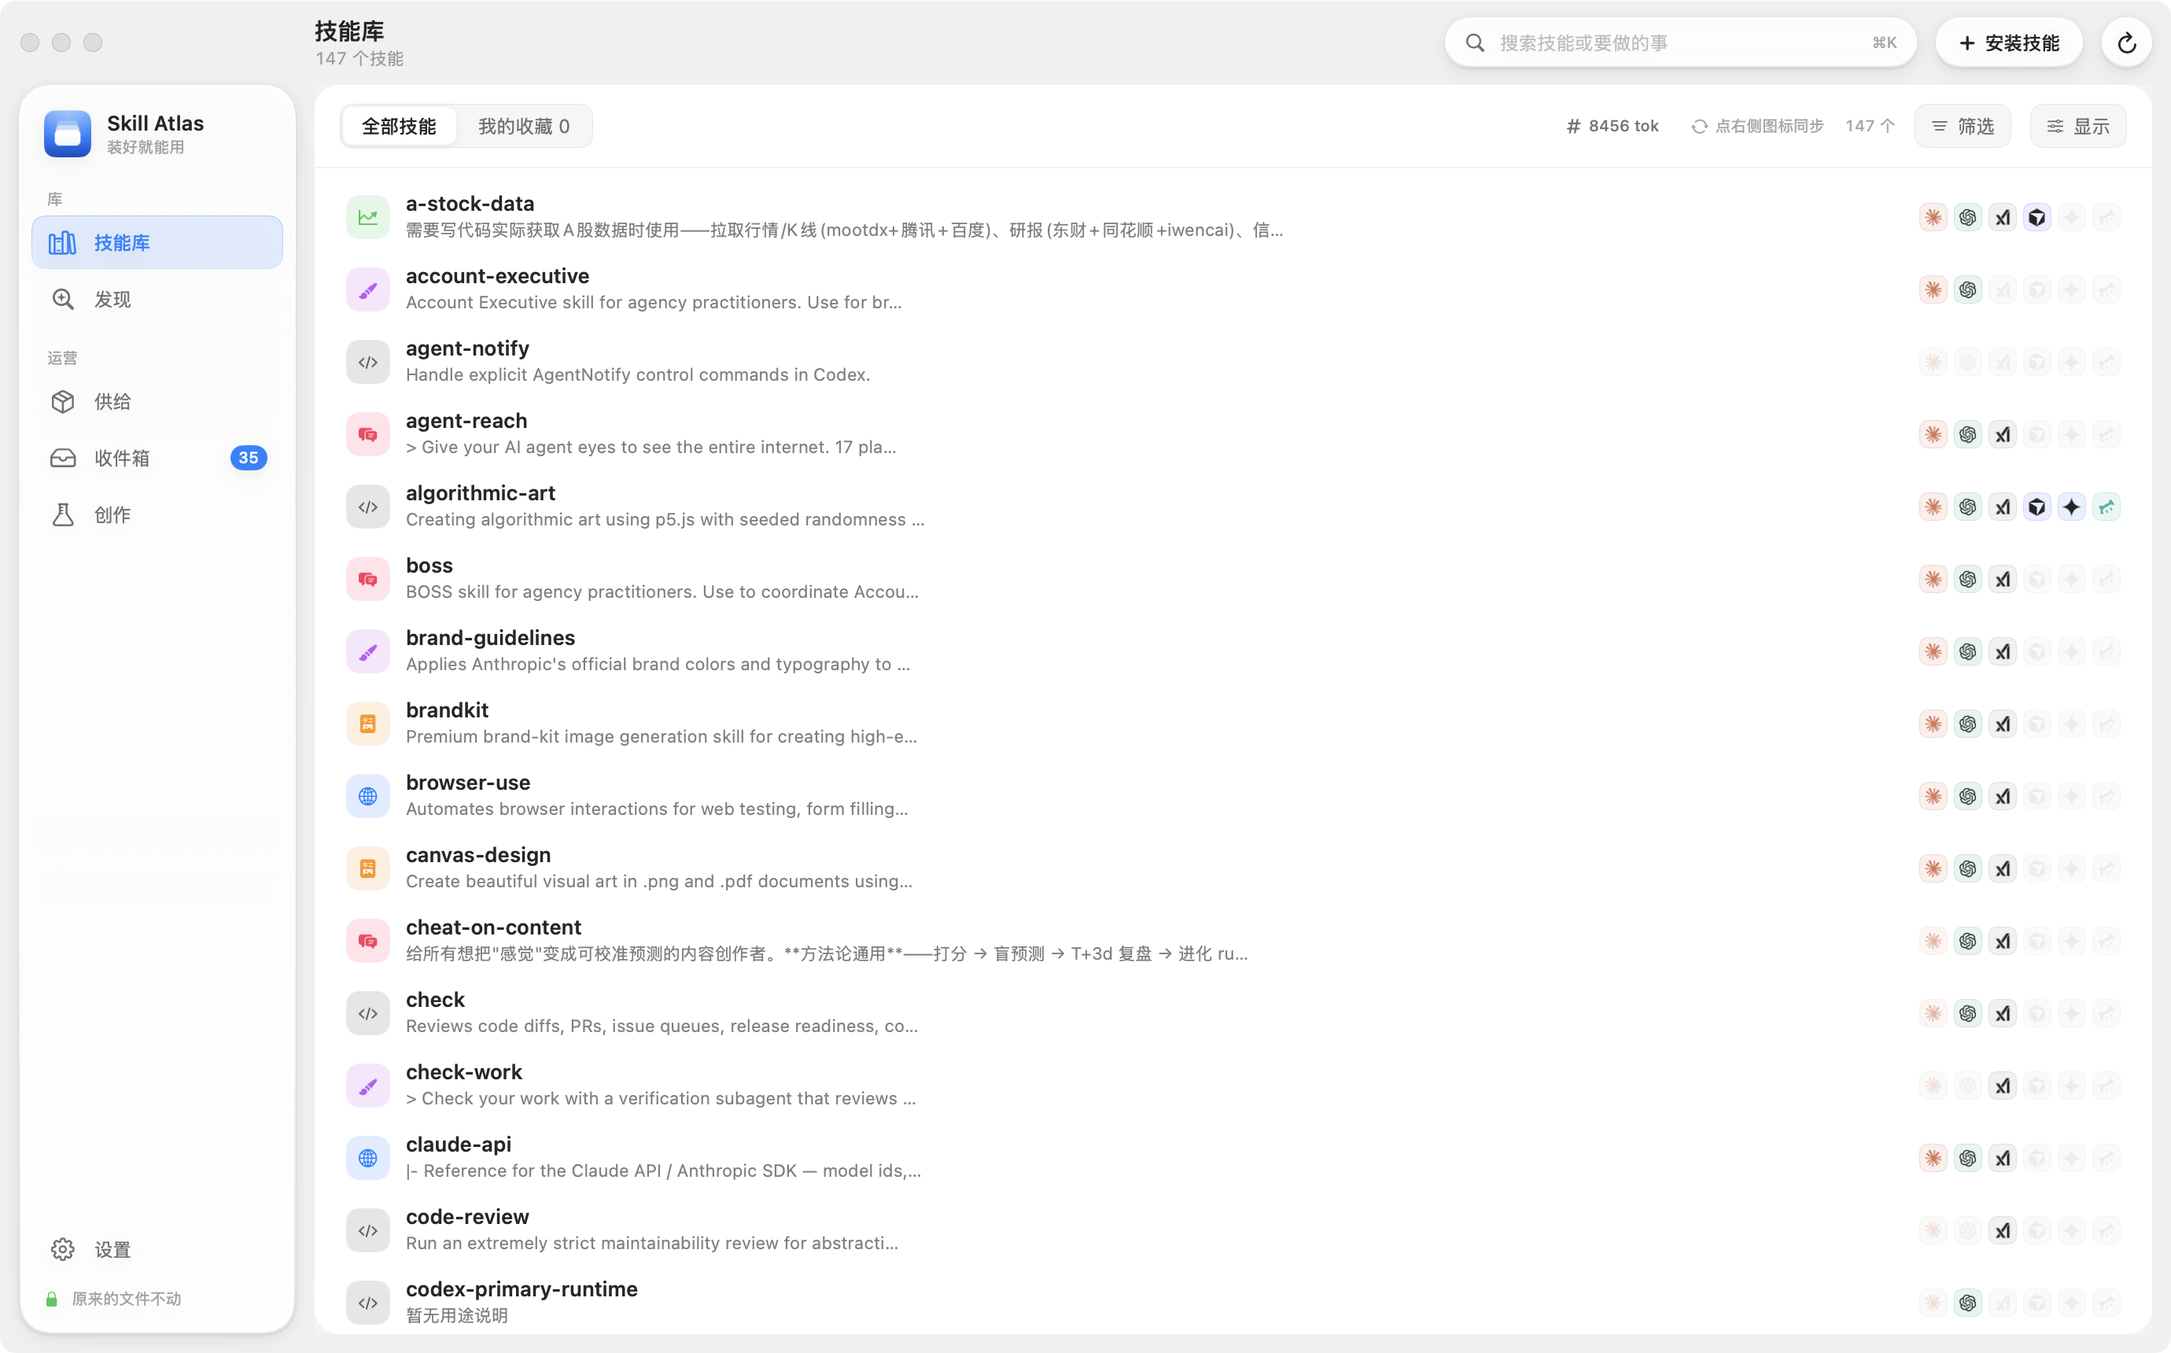
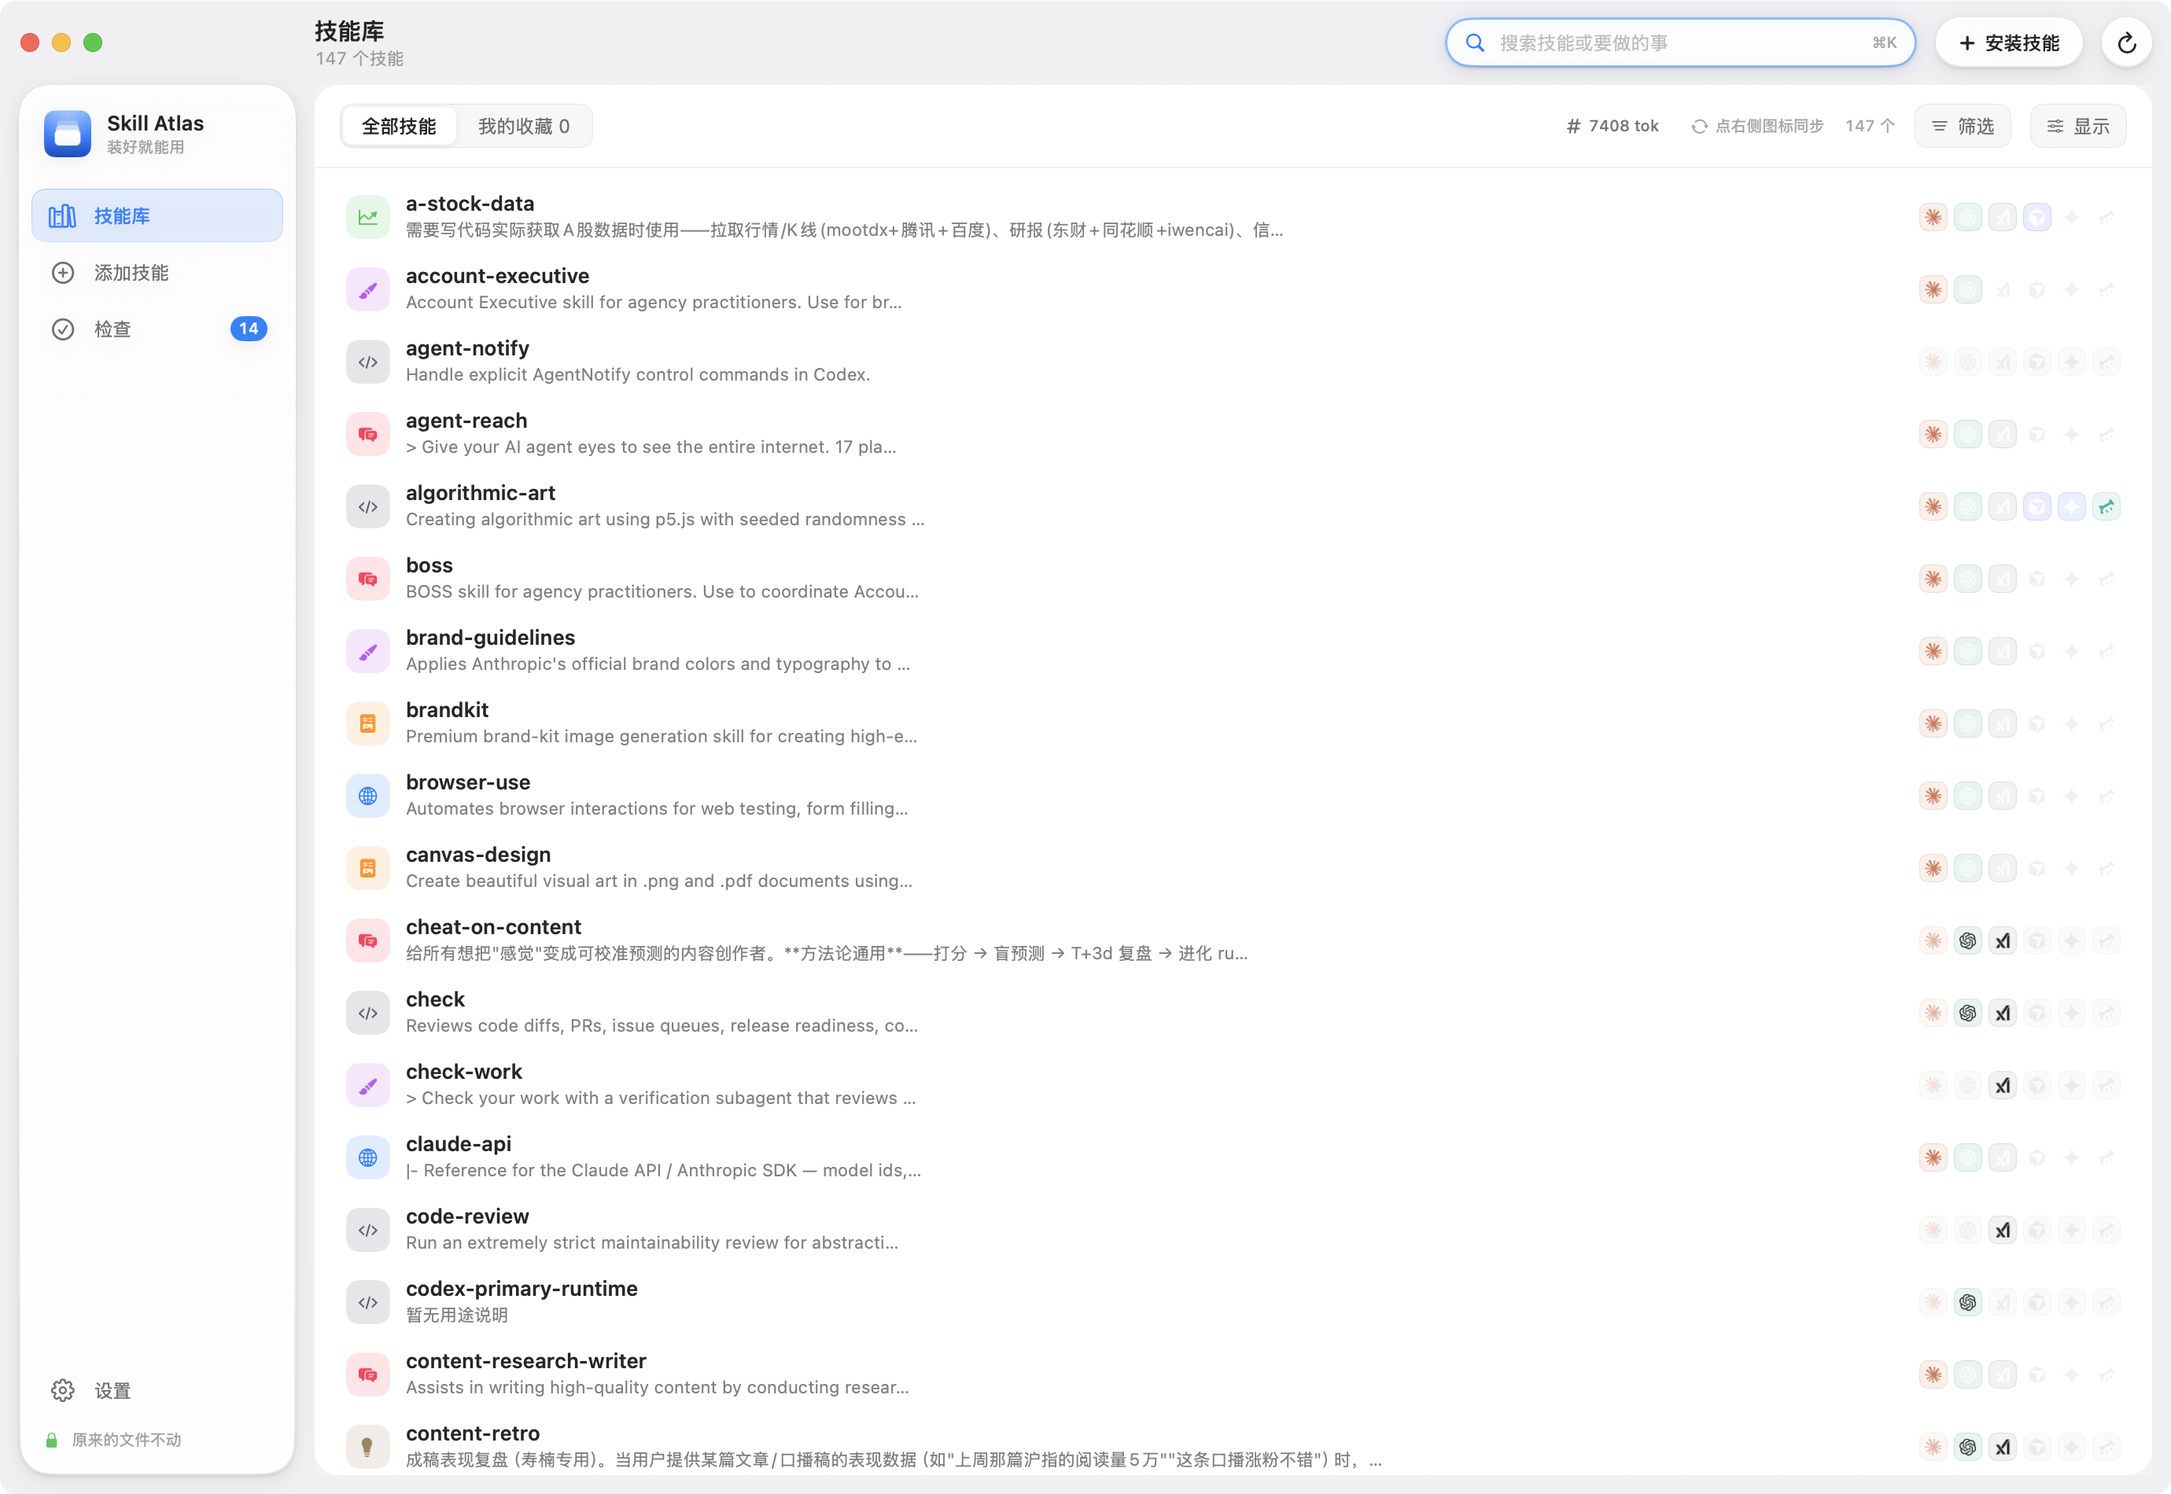
release: 2.2.0（文档与落地页跟上四页结构）
README、手册、落地页全部按新的四个页面重写：技能库、添加技能、检查、
设置。旧黑话（供给 / 收件箱 / 创作页）在这三处的出现次数归零。

手册改成四条日常流程——装一个新技能、自己做一个技能、每隔一阵看一眼
检查、让某个技能少占位置——每条都写清「成了的标志」和 agent 在终端里
的等价命令。

落地页主图重拍：旧图还是六项侧栏。

diff --git a/docs/index.html b/docs/index.html
@@ -4,7 +4,7 @@
     <meta charset="utf-8" />
     <meta name="viewport" content="width=device-width, initial-scale=1" />
     <title>Skill Atlas · 下载</title>
-    <meta name="description" content="技能的供给与运维层。agent 在会话里搜、装、诊断、沉淀；你每周清一次收件箱、调一次供给。装什么都过本地安全扫描。" />
+    <meta name="description" content="帮你把技能管好，然后别烦你。技能装了就能用；真出问题时到「检查」页看一眼。装什么都先过一遍本地安全扫描。" />
     <link rel="icon" href="./app-icon.png" />
     <link rel="stylesheet" href="./landing.css" />
   </head>
@@ -17,8 +17,8 @@
       </header>
 
       <section class="hero">
-        <h1>技能的供给与运维层</h1>
-        <p>本地 macOS 应用，五个名词各管一件事：技能库、发现、供给、收件箱、创作。终端里的 agent 用 <code>atlas</code> 搜、装、诊断、沉淀；你每周清一次收件箱。装什么都过本地安全扫描。</p>
+        <h1>把技能管好，然后别烦你</h1>
+        <p>本地 macOS 应用，四个页面：技能库、添加技能、检查、设置。技能装了就能用，真出问题时到「检查」看一眼。终端里的 agent 用 <code>atlas</code> 自己搜、装、诊断。装什么都先过一遍本地安全扫描。</p>
         <div class="cta">
           <a class="btn" id="download" href="https://github.com/shoumunan/skill-atlas/releases/latest">下载 Skill Atlas</a>
           <p class="note" id="meta">macOS 14+ · Apple 芯片 · 未公证，首次请右键打开</p>
@@ -35,12 +35,12 @@
           <p>聚合搜 skills.sh 与 SkillHub，官方精选一键装。zip 包安全解包，装前扫描一道不少。</p>
         </article>
         <article>
-          <h2>供给三档，账单可见</h2>
-          <p>哪个 AI、哪个项目带哪些技能进场。场景包一键切换，瘦身草案把每会话的 token 税砍下来。</p>
+          <h2>少占位置</h2>
+          <p>技能攒多了，每次对话都要先读一遍所有简介。不常用的设成「点名才用」，随时能叫，平时不花钱。</p>
         </article>
         <article>
-          <h2>收件箱裁决</h2>
-          <p>待审批、安全命中、挂载失败、miss、可更新排一条队。清零有回执，安全关键不许静音。</p>
+          <h2>出事才出声</h2>
+          <p>等你确认、可能不安全、装了用不了、叫不动——只有这四类会来找你。平时它是安静的。</p>
         </article>
       </section>
 

diff --git a/native/swift/core/L10nCore.swift b/native/swift/core/L10nCore.swift
@@ -18,6 +18,6 @@ package func LF(_ key: String, _ args: CVarArg...) -> String {
 
 /// 与 Info.plist CFBundleShortVersionString 对齐。发版改这一处 + plist。
 package enum AtlasVersion {
-    package static let string = "2.1.3"
-    package static let build = "213"
+    package static let string = "2.2.0"
+    package static let build = "220"
 }

diff --git a/docs/handbook.md b/docs/handbook.md
@@ -1,70 +1,76 @@
 # Skill Atlas 使用手册
 
-一句话：**技能的供给与运维层**。agent 在会话里搜、装、诊断、沉淀技能；你每周开一次面板，清收件箱、调供给。装什么都要过本地安全扫描，市场的评分与认证只是参考。
+一句话：**帮你把技能管好，然后别烦你**。技能装了就能用；真出问题时，App 会在「检查」里用人话告诉你怎么了。
 
 ## 你是谁，从哪读起
 
-- **会话里的 agent**：不用读这本手册。App 已把 `skill-atlas` 元技能挂到所有平台，agent 自己知道什么时候跑 `atlas search / install / simulate / new`。
-- **每周开一次面板的人**：读下面四条工作流，够用一年。
-- **技能少于 20 个、只用一个 AI 软件的人**：诚实说，Claude Code 原生的 `/plugin` 和 `~/.claude/skills` 就够了，暂时用不上本工具。
-- **想把技能库分享给同事的人**：还没做（P2 边界），先用 GitSync 手动同步。
+- **会话里的 agent**：不用读。App 已把 `skill-atlas` 元技能挂到所有平台，agent 自己知道什么时候搜、装、诊断、沉淀。
+- **你**：读下面四条，够用一年。
+- **技能少于 20 个、只用一个 AI 软件的人**：诚实说，Claude Code 自带的 `/plugin` 和 `~/.claude/skills` 就够了，暂时用不上本工具。
 
-侧栏六项对应六个问题：**技能库**（我有什么）、**发现**（怎么获得）、**供给**（谁带哪些进场）、**收件箱**（有什么要裁决）、**创作**（怎么沉淀）、设置（长期配置）。
+侧栏四项，名字就是你会问的那句话：
 
-## 四条工作流
+| 页 | 你想问的 |
+|---|---|
+| **技能库** | 我有哪些技能 |
+| **添加技能** | 我要多一个 |
+| **检查** | 有什么要我处理吗 |
+| 设置 | 长期配置 |
 
-### ① 找并装上一个新技能（发现，⌘2）
+## 四条日常
 
-1. 打开发现页。有链接就点「从链接或文件夹…」直接粘；没头绪就搜市场（skills.sh 全球 + SkillHub 国服），或逛官方精选与 SkillHub 热门榜。
-2. 点条目右侧「安装…」。GitHub 型走克隆；SkillHub 型下载 zip 并安全解包（`..`、符号链接、穿链一律整包拒收）。
-3. 安装 sheet 里勾选要装的技能与目标平台。装前安全扫描自动跑；**有关键级命中会强制进审阅页**，看完原文再决定。
-4. 带「要密钥」标的技能装完还要按它的说明注册账号或配密钥。
+### ① 装一个新技能（添加技能，⌘2）
 
-**完成证据**：结果清单显示「已装好，Claude 里能用了」，技能库列表里能搜到它。
-**失败分支**：市场没搜到 → 换关键词或直接粘 GitHub 链接；审阅页看不懂命中 → 别装，回网页看评测。
+1. 有链接就点「从链接或文件夹…」直接粘；没头绪就搜市场（skills.sh 全球 + SkillHub 国服），或看官方精选。
+2. 点条目右侧「安装…」。装之前会自动扫一遍代码，**扫到危险写法会拦下来让你先看原文**。
+3. 勾选要装到哪几个 AI 软件。带「要密钥」标记的技能，装完还得按它的说明去注册账号。
 
-> agent 等价：`atlas search <词> --remote --source all --json` → 对 repoURL 非空的条目 `atlas install <repoURL>`。
+**成了的标志**：结果里写「已装好，Claude 里能用了」，技能库里能搜到它。
 
-### ② 给新项目配供给（供给，⌘3）
+> agent 等价：`atlas search <词> --remote --source all --json` → `atlas install <repoURL>`
 
-1. 打开供给页，左轨「项目」→「添加项目…」选中项目目录。
-2. 点「套用场景包…」选一个场景包（没有就先点场景包行尾的管理按钮建一个，把该项目要用的技能拉进成员）。
-3. 确认写盘 sheet（会列出排除哪些、保留哪些），确定。
+### ② 自己做一个技能（添加技能 → 自己做一个）
 
-**完成证据**：项目卡显示「已绑定『X』：N 个技能不进该目录会话的自动清单」；项目里多出 `.claude/settings.local.json`。App 关掉照样生效。
-**失败分支**：绑错了 → 「解除绑定」一键恢复；全局清单太肥 → 左轨选 Claude，点「瘦身草案…」按使用次数分档，应用后账单头直接报前后 token。
+1. 起个名字，App 建好文件。
+2. 回到你的 agent 会话说「把 <技能名> 的 SKILL.md 填完」——内容让 agent 写。
+3. 想验证的话，在技能详情里试一句话，看它会不会被叫到。
 
-> agent 等价：`atlas profile apply <场景名> --project <目录>`；`atlas slim --apply`。
+**成了的标志**：真实会话里说那句话，技能被触发。
 
-### ③ 每周清一次收件箱（收件箱，⌘4）
+> agent 等价：`atlas new <name>` → 填内容 → `atlas simulate "<场景句>"`
 
-1. 周一打开收件箱（侧栏徽标 = 待裁决数）。
-2. 从「先处理这一件」的主任务卡开始：待审批点「审阅并批准…」，安全命中点「打开原文」看完再说，挂载问题进详情修，miss 点「开处方」改描述，可更新点「看更新…」看 diff。
-3. 整理类（触发重叠、介绍不好找）可以「忽略」；安全关键、挡住使用的、待审批不能忽略，处理掉才消失。
+### ③ 每隔一阵看一眼「检查」（⌘3）
 
-**完成证据**：页面出现「一切安静」和上次裁决时间；徽标归零。
-**失败分支**：忽略过的事项内容一变会自动回来，不用担心静音出事。
+页面顶部一张卡告诉你：**每次跟 Claude 说话，它都要先读一遍你所有技能的简介，这份简介现在多长**。技能攒多了这个数会涨，点「挑出不用的」按使用次数排一遍，逐个决定关不关。
 
-> agent 等价：`atlas doctor --json` 一次拿到全部九类事项。
+下面是要你处理的事，只有四类：
 
-### ④ 把流程沉淀成技能（创作，⌘5）
+- **等你确认**：会话里的 agent 想装个东西，但扫出了危险写法
+- **可能不安全**：某个技能里有危险写法
+- **装了用不了**：技能和 AI 软件之间的连接断了
+- **叫不动**：你说的话它本该接住却没接
 
-1. 创作页第 1 步输入技能名（可勾选带上剪贴板里刚复制的流程），点「建骨架」。
-2. 回到你的 agent 会话说「把 <技能名> 的 SKILL.md 填完」——内容让 agent 写，触发三元组写在 description 前 250 字符内。
-3. 第 2 步「开一个只装它的会话…」在隔离环境试跑（注意事项四条都列在卡片里）。
-4. 第 3 步输入一句用户会说的话点「预演」，直到它排第一（绿勾）。排不到第一时按提示把关键词写进 description。
-5. 改写描述两周后，收件箱会出回访卡对比前后命中。
+**成了的标志**：页面显示「没有要处理的事」。
 
-**完成证据**：第 3 步绿勾「这句话能唤到它」；真实会话里说同样的话技能被触发。
-**失败分支**：中途关掉 App 没关系，回来接着走（步进会恢复）；想换个想法点「换一个想法」，已建的技能留在库里。
+> agent 等价：`atlas doctor --json`
 
-> agent 等价：`atlas new <name>` → 填内容 → `atlas simulate "<场景句>"` → `atlas sandbox <name>`。
+### ④ 让某个技能少占位置（技能库 → 选中技能 → 怎么用它）
 
-## 边界（明确不做 / 只做到哪）
+每个技能有三种用法：
 
-- **不判断技能内容质量**。装前扫描只拦危险写法（`curl | sh`、路径穿越、可疑网络调用），好不好用要你自己试。
-- **档位（三档供给）只对 Claude Code 生效**；其他平台按挂载二态供给。
+- **自动**：Claude 会自己想到用它
+- **点名才用**：你打 `/名字` 才会用，**不占开场的篇幅**
+- **关掉**：完全不用
+
+不常用但偶尔要的技能，设成「点名才用」最划算：随时能叫，平时不花钱。
+
+> agent 等价：`atlas slim --apply`
+
+## 边界
+
+- **不判断技能好不好用**。装前扫描只拦危险写法（`curl | sh`、路径穿越、可疑网络调用），内容质量得你自己试。
+- **三种用法只对 Claude Code 生效**。其他软件只有装 / 不装两种。
 - **不做跨机实时同步**。设置里的 Git 快照是手动的。
-- **不管 MCP 服务器与子代理**，只管 Agent Skills（SKILL.md）。
-- **市场排名与认证仅供参考**，SkillHub 的「已审核」不减免本地任何一道门。
-- marketplace.json 市场仓库不用专门支持：它本身是 GitHub 仓库，粘链接就能装出里面全部技能。
+- **只管 Agent Skills（SKILL.md）**，不管 MCP 服务器和子代理。
+- **市场的评分和认证只是参考**，不减免本地的任何一道检查。
+- 给不同项目配不同技能（场景包）在设置 → 进阶里，属于少数人才需要的功能。

diff --git a/README.md b/README.md
@@ -1,18 +1,17 @@
 # Skill Atlas · 技能图谱
 
-本地 macOS 应用：**技能的供给与运维层**。agent 在会话里用 `atlas` CLI 搜、装、诊断、沉淀技能；你每周开一次面板清收件箱、调供给。装什么都过本地安全扫描。
+本地 macOS 应用：**帮你把技能管好，然后别烦你**。技能装了就能用；真出问题时到「检查」页看一眼。会话里的 agent 用 `atlas` 命令自己搜、装、诊断。装什么都先过一遍本地安全扫描。
 
 数据在 `~/.skill-atlas/`。CC Switch 只读迁入，不改它的文件。
 
-## 五个名词
+## 四个页面
 
-- **技能库**：库存、每技能的挂载与档位、使用统计、上下文成本
-- **发现**：聚合搜市场（skills.sh 全球 + SkillHub 国服）、官方精选、GitHub 链接与本地导入、SkillHub zip 直装（安全解包）
-- **供给**：哪个 AI、哪个项目带哪些技能进场；场景包、三档档位、瘦身草案、上下文账单
-- **收件箱**：待审批、安全命中、挂载失败、miss、可更新排队裁决，清零有回执
-- **创作**：建骨架 → 沙箱试跑 → 触发验证 → 命中回访，四步把流程沉淀成技能
+- **技能库**：我有哪些技能。每行显示装在哪些软件里、用过多少次、占多少篇幅
+- **添加技能**：装现成的（搜市场 / GitHub 链接 / 本地文件夹 / 收编散落的），或自己做一个
+- **检查**：有什么要你处理。顶部一张卡说清「技能简介占多长、能不能少点」，下面只放四类真待办：等你确认 / 可能不安全 / 装了用不了 / 叫不动
+- 设置：软件目录、通知、发现来源、进阶
 
-怎么用：[使用手册](docs/handbook.md)（四条工作流，每条带完成证据）。agent 不用读——元技能 `skill-atlas` 已挂到所有平台。
+怎么用：[使用手册](docs/handbook.md)（四条日常，每条带成功标志）。agent 不用读——元技能 `skill-atlas` 已挂到所有平台。
 
 ## 下载
 
